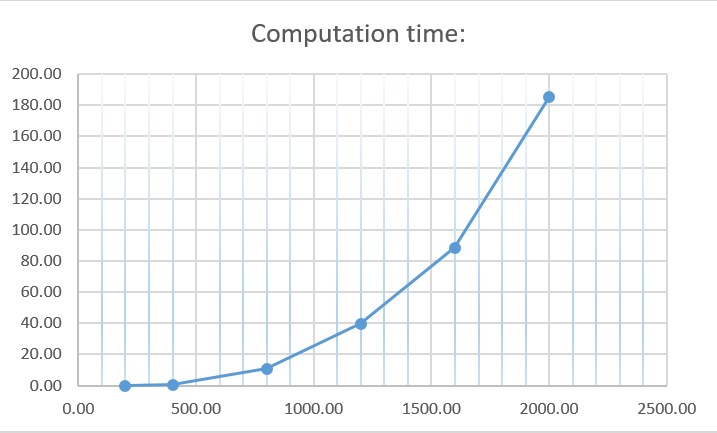
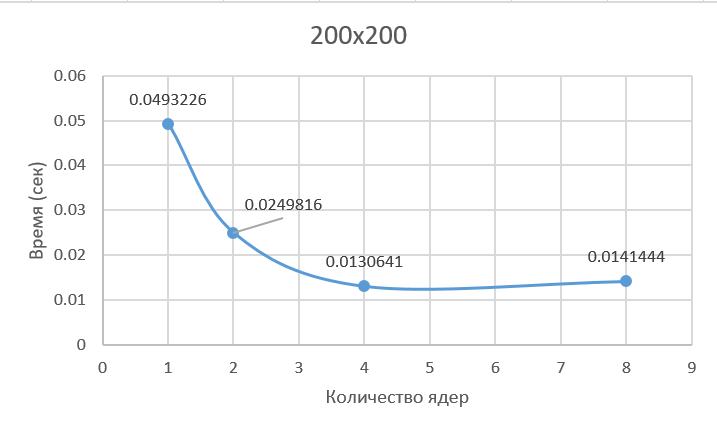
Lab 3 done

diff --git a/src/main.cpp b/src/main.cpp
@@ -1,64 +1,56 @@
 #include <chrono>
 #include <cstdlib>
 #include <random>
+#include <mpi.h>
 
 #include "matrix.hpp"
 
-void generate_matrix_file(const std::string& filename, size_t size)
-{
-    std::ofstream file(filename);
-    if (!file.is_open())
-        throw std::runtime_error("Could not create file: " + filename);
-
-    std::random_device rd;
-    std::mt19937 gen(rd());
-    std::uniform_real_distribution<double> dist(-10.0, 10.0);
-
-    file << size << " " << size << "\n";
-    for (size_t i = 0; i < size; ++i)
-    {
-        for (size_t j = 0; j < size; ++j)
-            file << dist(gen) << " ";
-        file << "\n";
-    }
-}
-
 int main(int argc, char* argv[])
 {
-    try
-    {
-        std::cout << "Square matrix size:" << ";" << "Computation time:" << std::endl;
-        for (int i = 1; i < argc; ++i) {
+	MPI_Init(&argc, &argv);
 
-            size_t size = std::stoull(argv[i]);
+	int rank, world_size;
+	MPI_Comm_rank(MPI_COMM_WORLD, &rank);
+	MPI_Comm_size(MPI_COMM_WORLD, &world_size);
 
-            generate_matrix_file(PROJECT_ROOT "/input/A.txt", size);
-            generate_matrix_file(PROJECT_ROOT "/input/B.txt", size);
+	try
+	{
 
-            Matrix<double> A(PROJECT_ROOT "/input/A.txt");
-            Matrix<double> B(PROJECT_ROOT "/input/B.txt");
+		//for (int i = 1; i < argc; ++i)
+		//{
+		size_t size = std::stoull(argv[1]);
 
-            auto start = std::chrono::high_resolution_clock::now();
-            Matrix<double> C = A * B;
-            auto end = std::chrono::high_resolution_clock::now();
-            auto duration = std::chrono::duration<double>(end - start);
+		Matrix<double> A(PROJECT_ROOT "/input/A.txt");
+		Matrix<double> B(PROJECT_ROOT "/input/B.txt");
 
-            std::string outpath = PROJECT_ROOT "/output/C.txt";
-            std::ofstream file(outpath);
-            if (!file.is_open())
-                throw std::runtime_error("Could not open output file!");
+		MPI_Barrier(MPI_COMM_WORLD);
+		auto start = MPI_Wtime();
 
-            std::cout << C.rows() << ";" << duration.count() << std::endl;
+		Matrix<double> C = multiply_mpi(A, B);
 
-            file << C.rows() << " " << C.cols() << std::endl;
-            file << C;
-        }
-    }
-    catch (const std::exception& e)
-    {
-        std::cerr << "Error: " << e.what() << std::endl;
-        return 1;
-    }
+		auto end = MPI_Wtime();
+		auto duration = end - start;
 
-    return 0;
+		if (rank == 0)
+		{
+
+			std::cout << size << ";" << world_size << ";" << duration << std::endl;
+
+			std::string outpath = PROJECT_ROOT "/output/C.txt";
+			std::ofstream file(outpath);
+			if (!file.is_open())
+				throw std::runtime_error("Could not open output file!");
+			file << C.rows() << " " << C.cols() << std::endl;
+			file << C;
+		}
+	}
+	/* }*/
+	catch (const std::exception& e)
+	{
+		std::cerr << "Error on rank " << rank << ": " << e.what() << std::endl;
+		MPI_Abort(MPI_COMM_WORLD, 1);
+	}
+
+	MPI_Finalize();
+	return 0;
 }

diff --git a/include/matrix.hpp b/include/matrix.hpp
@@ -5,6 +5,7 @@
 #include <stdexcept>
 #include <string>
 #include <vector>
+#include <mpi.h>
 
 template <typename T>
 class Matrix
@@ -16,8 +17,8 @@ private:
 
 public:
     explicit Matrix(size_t n) : Matrix(n, n) {}
-    Matrix(size_t rows, size_t cols) : _rows(rows), _cols(cols), _data(rows * cols) {}
-    explicit Matrix(const std::string &filename) : _rows(0), _cols(0)
+    Matrix(size_t rows, size_t cols) : _rows(rows), _cols(cols), _data(rows* cols) {}
+    explicit Matrix(const std::string& filename) : _rows(0), _cols(0)
     {
         std::ifstream file(filename);
         if (!file.is_open())
@@ -43,51 +44,78 @@ public:
         }
     }
 
-    T &operator()(size_t row, size_t col)
+    T& operator()(size_t row, size_t col)
     {
         if (row >= _rows || col >= _cols)
             throw std::out_of_range("Matrix index out of range");
         return _data[row * _cols + col];
     }
-    const T &operator()(size_t row, size_t col) const
+    const T& operator()(size_t row, size_t col) const
     {
         if (row >= _rows || col >= _cols)
             throw std::out_of_range("Matrix index out of range");
         return _data[row * _cols + col];
     }
 
-    size_t rows() const noexcept
-    {
-        return _rows;
-    }
-    size_t cols() const noexcept
-    {
-        return _cols;
-    }
+    size_t rows() const noexcept { return _rows; }
+    size_t cols() const noexcept { return _cols; }
+    const T* data() const noexcept { return _data.data(); }
+    T* data() noexcept { return _data.data(); }
 };
 
 template <typename T>
-Matrix<T> operator*(const Matrix<T> &lhs, const Matrix<T> &rhs)
+Matrix<T> multiply_mpi(const Matrix<T>& A, const Matrix<T>& B)
 {
-    if (lhs.cols() != rhs.rows())
-        throw std::invalid_argument("Matrix dimensions do not match for multiplication");
+    int rank, size;
+    MPI_Comm_rank(MPI_COMM_WORLD, &rank);
+    MPI_Comm_size(MPI_COMM_WORLD, &size);
 
-    Matrix<T> result(lhs.rows(), rhs.cols());
-    for (size_t i = 0; i < lhs.rows(); ++i)
+    size_t n = A.rows();
+    if (A.cols() != n || B.rows() != n || B.cols() != n)
+        throw std::invalid_argument("MPI multiplication requires square matrices");
+
+    size_t rows_per_proc = n / size;
+    size_t remainder = n % size;
+    size_t local_rows = rows_per_proc + (rank < remainder ? 1 : 0);
+
+    std::vector<int> sendcounts(size), displs(size);
+    size_t offset = 0;
+    for (int i = 0; i < size; ++i)
     {
-        for (size_t j = 0; j < rhs.cols(); ++j)
+        sendcounts[i] = (rows_per_proc + (i < remainder ? 1 : 0)) * n;
+        displs[i] = offset;
+        offset += sendcounts[i];
+    }
+
+    std::vector<T> local_A(local_rows * n);
+    MPI_Scatterv(A.data(), sendcounts.data(), displs.data(), MPI_DOUBLE,
+        local_A.data(), local_rows * n, MPI_DOUBLE,
+        0, MPI_COMM_WORLD);
+
+    MPI_Bcast(const_cast<T*>(B.data()), n * n, MPI_DOUBLE, 0, MPI_COMM_WORLD);
+
+    std::vector<T> local_C(local_rows * n, 0.0);
+    for (size_t i = 0; i < local_rows; ++i)
+    {
+        for (size_t j = 0; j < n; ++j)
         {
-            T sum = T();
-            for (size_t k = 0; k < lhs.cols(); ++k)
-                sum += lhs(i, k) * rhs(k, j);
-            result(i, j) = sum;
+            for (size_t k = 0; k < n; ++k)
+            {
+                local_C[i * n + j] += local_A[i * n + k] * B(k, j);
+            }
         }
     }
-    return result;
+
+    Matrix<T> C(n, n);
+    MPI_Gatherv(local_C.data(), local_rows * n, MPI_DOUBLE,
+        C.data(), sendcounts.data(), displs.data(), MPI_DOUBLE,
+        0, MPI_COMM_WORLD);
+
+    return C;
 }
 
 template <typename T>
-std::ostream &operator<<(std::ostream &os, const Matrix<T> &matrix)
+std::ostream& operator<<(std::ostream& os, const Matrix<T>& matrix)
 {
     for (size_t i = 0; i < matrix.rows(); ++i)
     {

diff --git a/src/generator.cpp b/src/generator.cpp
@@ -1,0 +1,39 @@
+#include <fstream>
+#include <random>
+#include <string>
+#include <iostream>
+#include <cstdlib>
+
+void generate_matrix_file(const std::string& filename, size_t size)
+{
+	std::ofstream file(filename);
+	if (!file.is_open())
+		throw std::runtime_error("Could not create file: " + filename);
+
+	std::random_device rd;
+	std::mt19937 gen(rd());
+	std::uniform_real_distribution<double> dist(-10.0, 10.0);
+
+	file << size << " " << size << "\n";
+	for (size_t i = 0; i < size; ++i)
+	{
+		for (size_t j = 0; j < size; ++j)
+			file << dist(gen) << " ";
+		file << "\n";
+	}
+}
+
+int main(int argc, char* argv[])
+{
+	size_t size = std::stoull(argv[1]);
+	std::string a_file = PROJECT_ROOT "/input/A.txt";
+	std::string b_file = PROJECT_ROOT "/input/B.txt";
+
+	generate_matrix_file(a_file, size);
+	generate_matrix_file(b_file, size);
+
+	std::cout << "Generated " << size << "x" << size << " matrices" << std::endl;
+
+
+	return 0;
+}

diff --git a/README.md b/README.md
@@ -1,21 +1,43 @@
 # Лабораторная работа №3
 ###
 
-Описание работы: `matrix.hpp` хранит шаблонный класс матрицы с перегруженными операциями умножения и вывода. `main.cpp` генерирует матрицы заданного размера,
-перемножает их, и выдаёт время работы. Пример вызова: `./lab1 200 400 800 1200 1600 2000`. verify.py позволяет проверить результат умножения с помощью numpy.
+Описание работы: Был модифицирован код первой лабораторной работы под технологию MPI. `matrix.hpp` хранит шаблонный класс матрицы с перегруженными
+операциями умножения и вывода. `generator.cpp` генерирует матрицы заданного размера. `main.cpp`перемножает их, и выдаёт время работы. 
+`verify.py` позволяет проверить результат умножения с помощью numpy.
+Запустить можно, например, с помощью такого .sh скрипта:
+```
+#!/bin/bash
+
+SIZES="200 400 800 1200 1600 2000"
+CORES="1 2 4 8"
+
+for size in $SIZES; do
+    ./lab1/out/build/x64-Debug/generator $size
+    
+    for np in $CORES; do
+        mpiexec -n $np ./lab1/out/build/x64-Debug/lab3 $size
+    done
+    echo ""
+done
+```
 
 ### Результаты
 
-| Square matrix size: | Computation time: |
-| --- | --- |
-| 200.00 | 0.05 |
-| 400.00 | 0.40 |
-| 800.00 | 10.98 |
-| 1200.00 | 39.75 |
-| 1600.00 | 88.57 |
-|2000.00 | 185.37 |
+| Размер матрицы \ Количество ядер | 1 | 2 | 4 | 8 |
+| --- | --- | --- | --- | --- |
+| **200x200** | 0.0493226 с | 0.0249816 с | 0.0130641 с | 0.0141444 с |
+| **400x400** | 0.482429 с | 0.22115 с | 0.16977 с | 0.120428 с |
+| **800x800** | 4.63513 с | 4.357 с | 1.59169 с | 1.03532 с |
+| **1200x1200** | 18.107 с | 10.3389 с | 8.77977 с | 8.9831 с |
+| **1600x1600** | 81.2929 с | 41.8479 с | 20.7287 с | 20.8531 с |
+| **2000x2000** | 138.793 с | 82.0701 с | 43.505 с | 42.235 с |
 
 ![](result.png)
+![](result1.png)
+![](result2.png)
+![](result3.png)
+![](result4.png)
+![](result5.png)
 
 ### *Характеристики моего ПК*
 | Characteristic | Characteristic value |